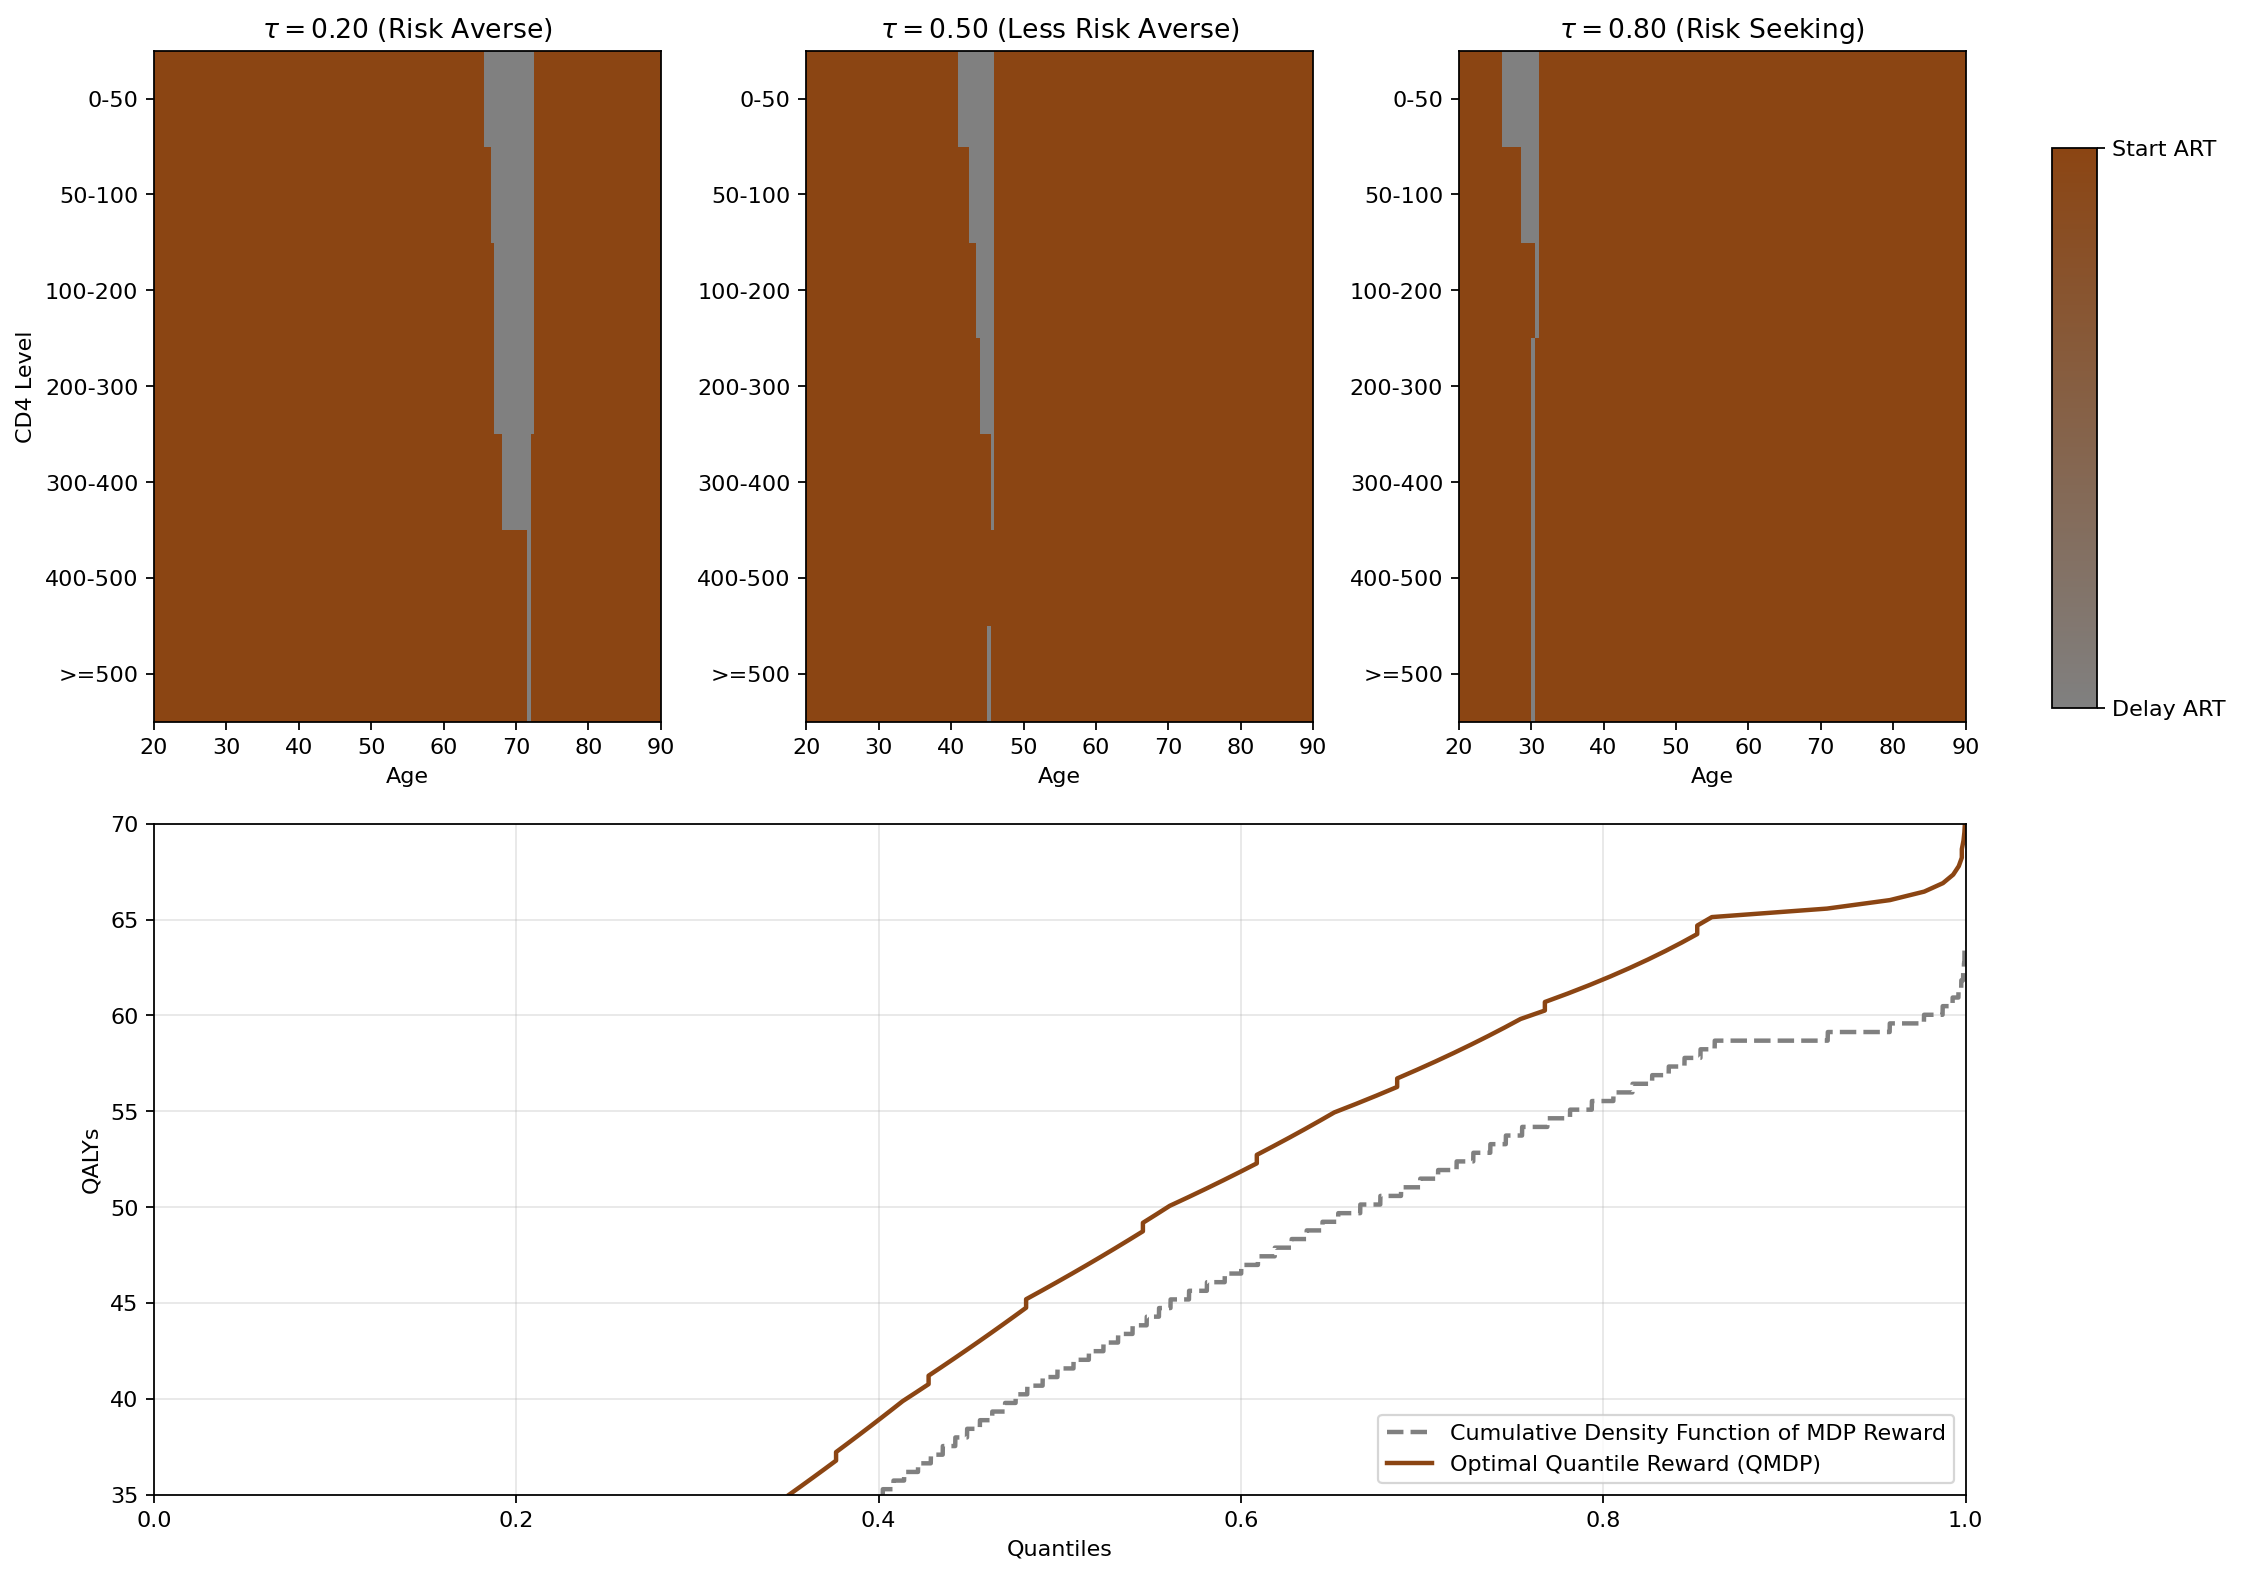
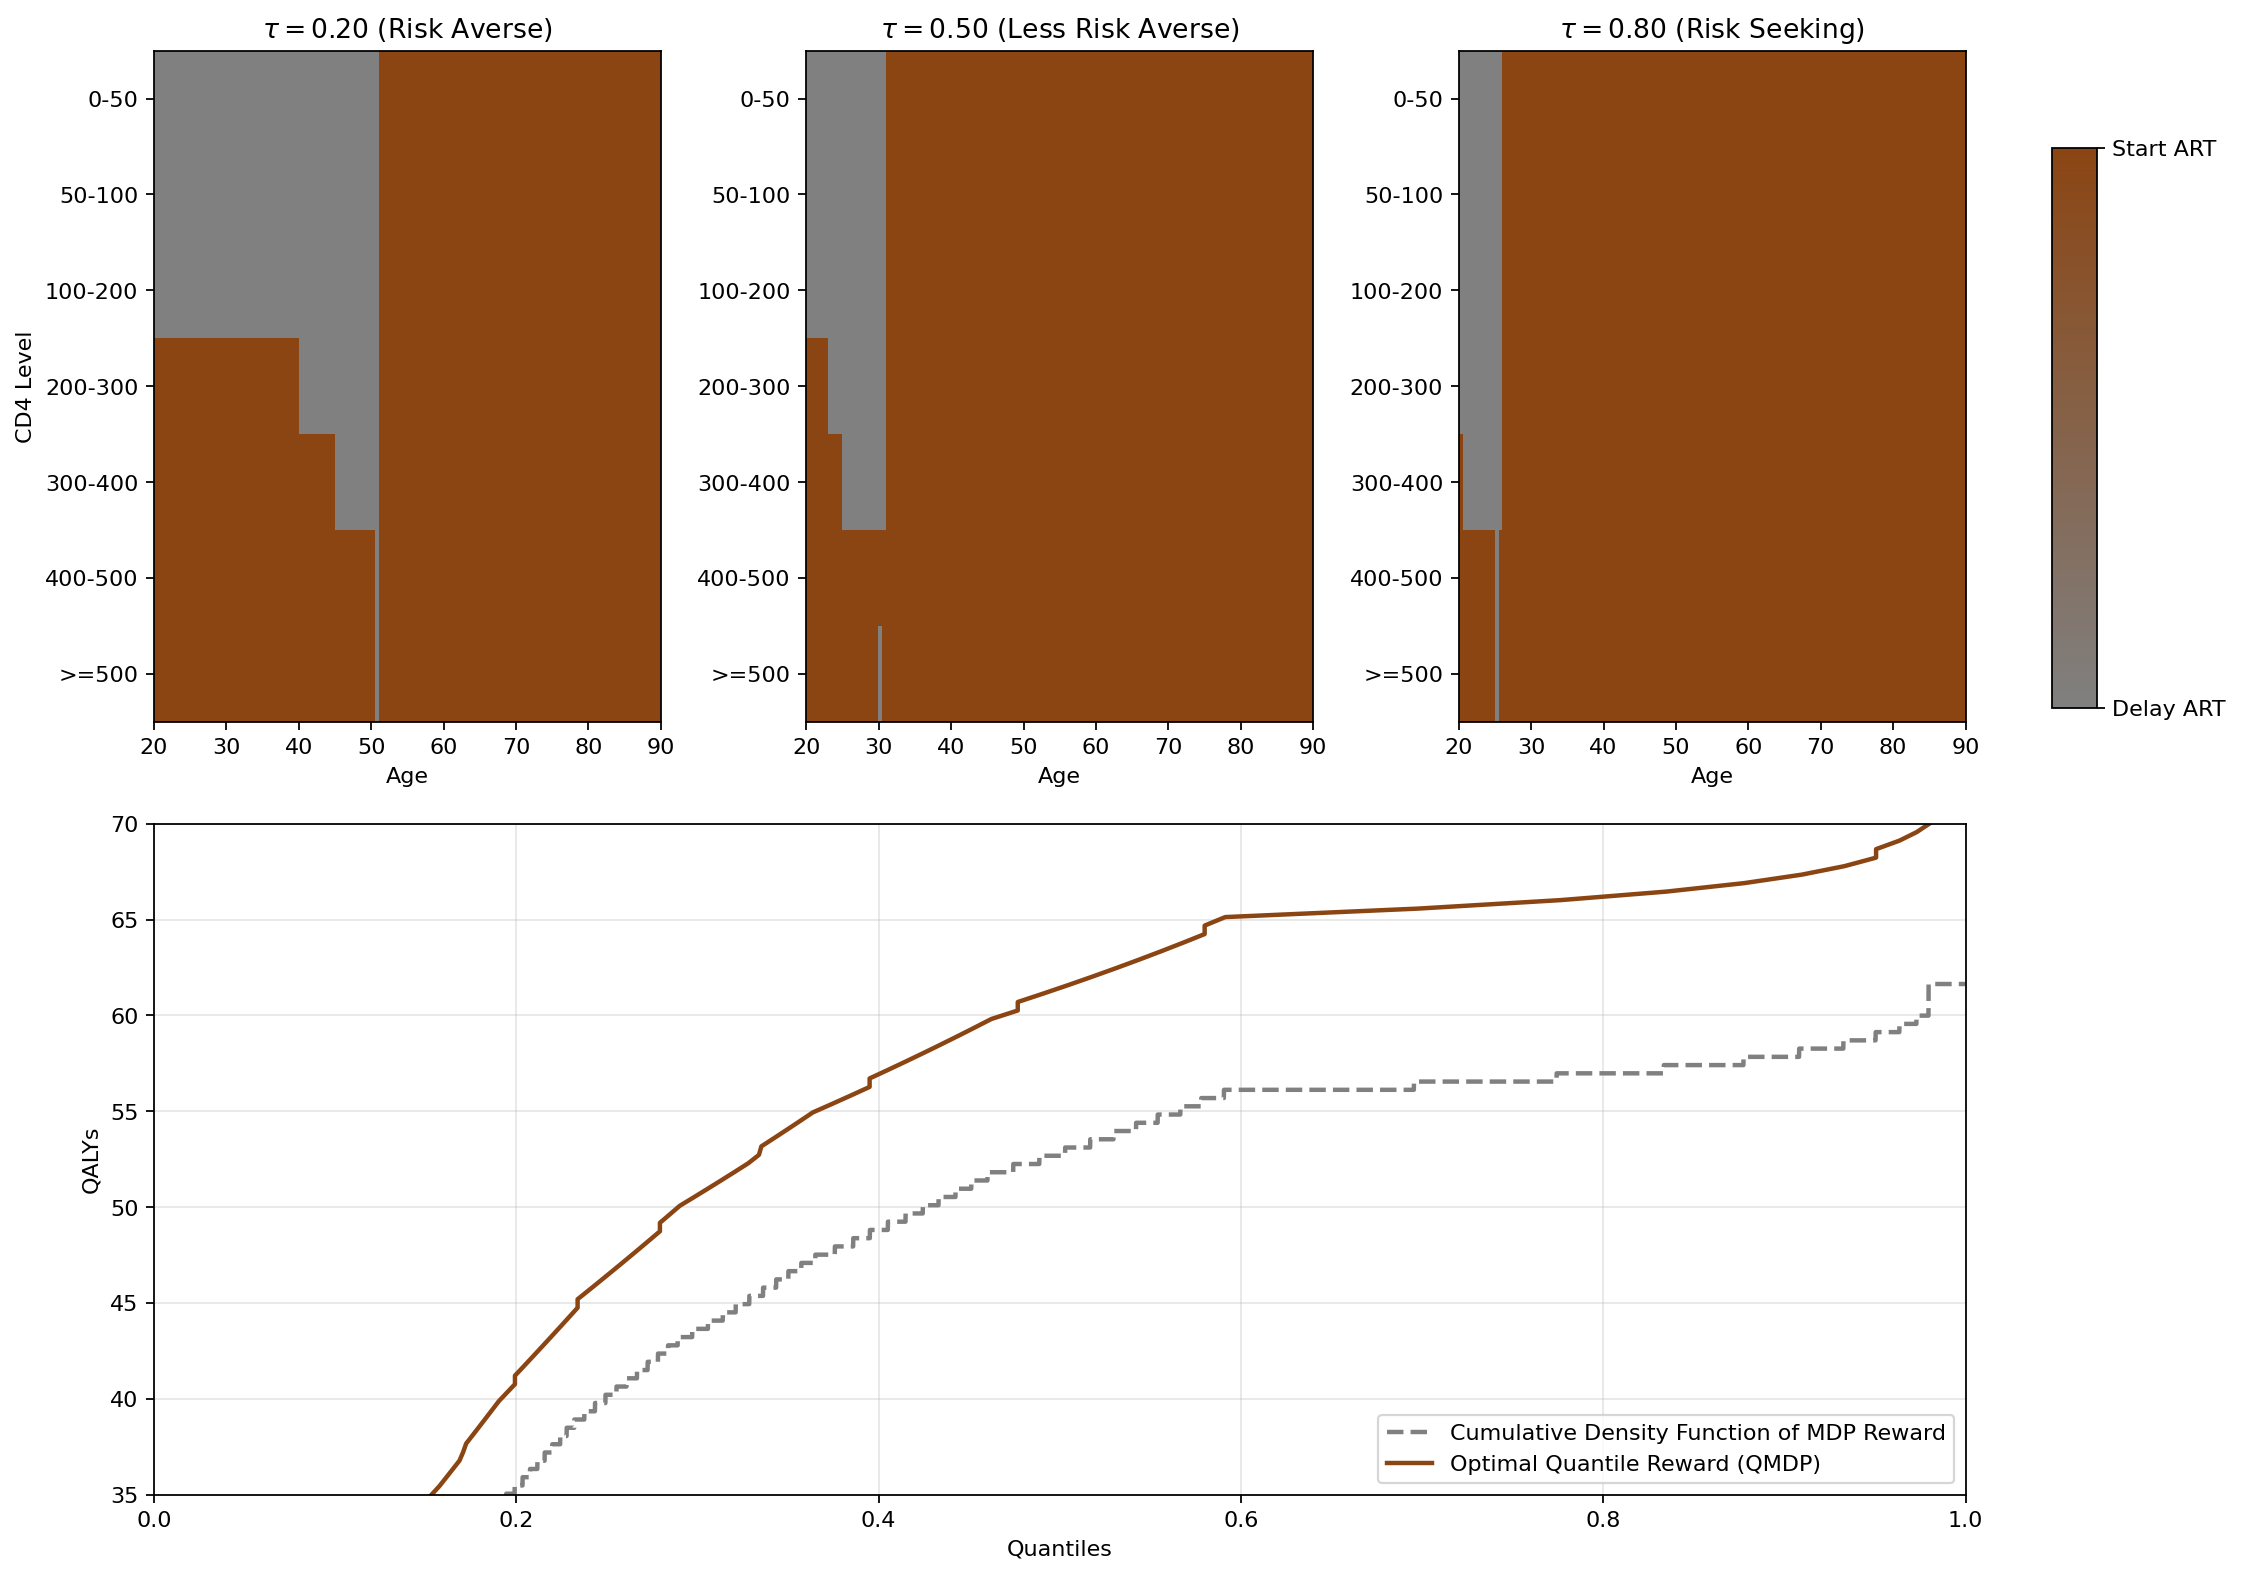
Use Negoescu 2012 original parameters for QMDP
Key finding: Zhong thesis Table A.1 has 10-30x higher HIV mortality rates
than the original Negoescu et al. (2012) paper. Using the original lower
mortality rates produces policy patterns that match thesis Figures 2.10-2.11.

- Added PARAM_SET option to switch between 'negoescu' and 'zhong' parameters
- Default to 'negoescu' which produces thesis-like DELAY regions
- Updated QMDP results plot with new parameters

diff --git a/qmdp_hiv.py b/qmdp_hiv.py
@@ -14,10 +14,10 @@ The algorithm uses threshold-based backward DP:
 3. Terminal: V_T(x, r) = 1 if r >= z, else 0
 4. For tau, find z* = max{z : V_0(x_0, 0) >= 1 - tau}
 
-NOTE: The exact parameters from Zhong (2020) Figures 2.10-2.11 are not fully
-available (background mortality from reference [139] is not tabulated). This
-implementation uses WHO Life Tables 2016 as an approximation, which produces
-qualitatively similar but not identical policy patterns.
+NOTE: The Zhong (2020) thesis Table A.1 has significantly different HIV mortality
+rates than the original Negoescu et al. (2012) paper (10-30x higher). Using
+Negoescu's original parameters produces policy patterns closer to the thesis
+figures. Set PARAM_SET = "negoescu" or "zhong" to switch between parameter sets.
 
 Reference:
   Li Y, Zhong M, Marecki M, Makar M, Ghavamzadeh M (2022). Quantile Markov
@@ -34,15 +34,31 @@ from pathlib import Path
 import json
 
 # ==============================================================================
-# Import model parameters from static_cvar_hiv.py
+# Model parameters
 # ==============================================================================
 
-# Thesis parameters (Table A.1)
-CD4_MIDPOINTS = np.array([25, 75, 150, 250, 350, 450, 750], dtype=float)
-DEATH_NO_ART = np.array([0.1618, 0.0692, 0.0549, 0.0428, 0.0348, 0.0295, 0.0186, 0.0], dtype=float)
-DEATH_ART = np.array([0.1356, 0.0472, 0.0201, 0.0103, 0.0076, 0.0076, 0.0045, 0.0], dtype=float)
-UTILITY_NO_ART = np.array([0.82, 0.83, 0.84, 0.85, 0.86, 0.87, 0.88, 0.0], dtype=float) * 0.5
-UTILITY_ART = np.array([0.72, 0.75, 0.78, 0.81, 0.84, 0.87, 0.90, 0.0], dtype=float) * 0.5
+# Choose parameter set: "negoescu" (original 2012 paper) or "zhong" (thesis Table A.1)
+# The Zhong thesis has 10-30x higher HIV mortality rates than Negoescu 2012,
+# which dramatically changes optimal policies.
+PARAM_SET = "negoescu"  # "negoescu" or "zhong"
+
+if PARAM_SET == "negoescu":
+    # Negoescu et al. 2012 (Clin Infect Dis) - Original parameters
+    # CD4 bins: <50, 50-99, 100-199, 200-349, 350-499, 500-649, >=650, dead
+    CD4_MIDPOINTS = np.array([25, 75, 150, 275, 425, 575, 750], dtype=float)
+    DEATH_NO_ART = np.array([0.1005, 0.02, 0.0108, 0.006, 0.0016, 0.001, 0.0008, 0.0], dtype=float)
+    DEATH_ART = np.array([0.0167, 0.0119, 0.0085, 0.0039, 0.0012, 0.001, 0.0008, 0.0], dtype=float)
+    # Utilities from Zhong thesis (Negoescu doesn't specify per-CD4 utilities)
+    UTILITY_NO_ART = np.array([0.82, 0.83, 0.84, 0.85, 0.86, 0.87, 0.88, 0.0], dtype=float) * 0.5
+    UTILITY_ART = np.array([0.72, 0.75, 0.78, 0.81, 0.84, 0.87, 0.90, 0.0], dtype=float) * 0.5
+else:
+    # Zhong thesis Table A.1 parameters (modified from Negoescu)
+    CD4_MIDPOINTS = np.array([25, 75, 150, 250, 350, 450, 750], dtype=float)
+    DEATH_NO_ART = np.array([0.1618, 0.0692, 0.0549, 0.0428, 0.0348, 0.0295, 0.0186, 0.0], dtype=float)
+    DEATH_ART = np.array([0.1356, 0.0472, 0.0201, 0.0103, 0.0076, 0.0076, 0.0045, 0.0], dtype=float)
+    UTILITY_NO_ART = np.array([0.82, 0.83, 0.84, 0.85, 0.86, 0.87, 0.88, 0.0], dtype=float) * 0.5
+    UTILITY_ART = np.array([0.72, 0.75, 0.78, 0.81, 0.84, 0.87, 0.90, 0.0], dtype=float) * 0.5
+
 CD4_DECREASE = 35.25
 CARDIAC_MULT = 2.0
 
